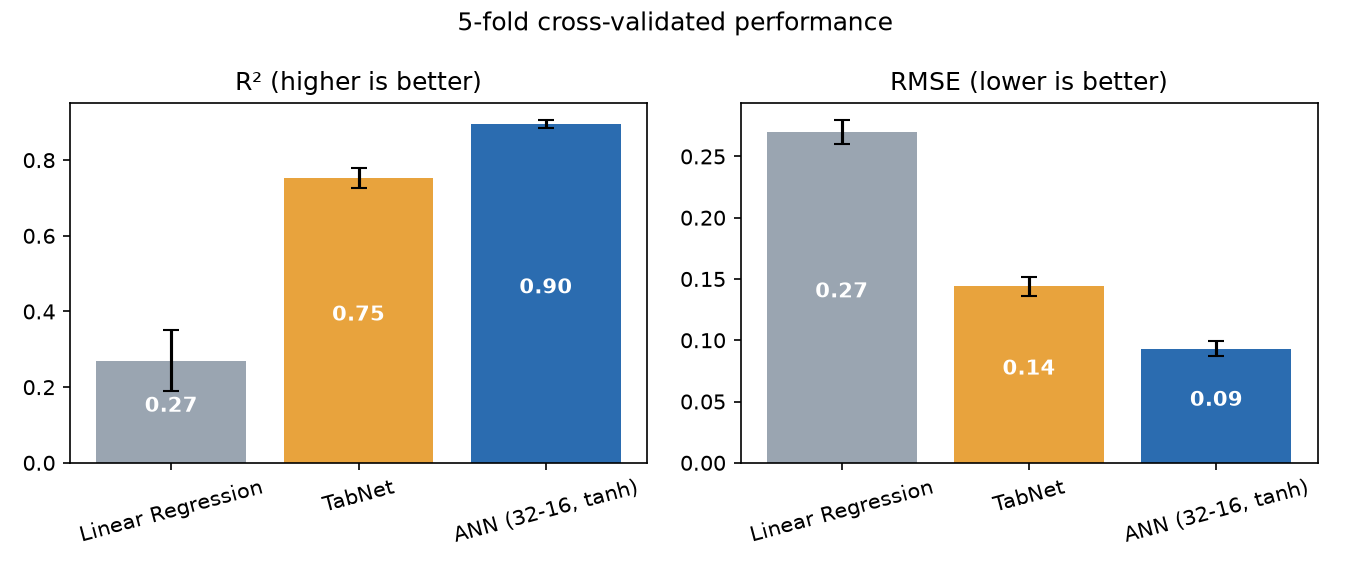
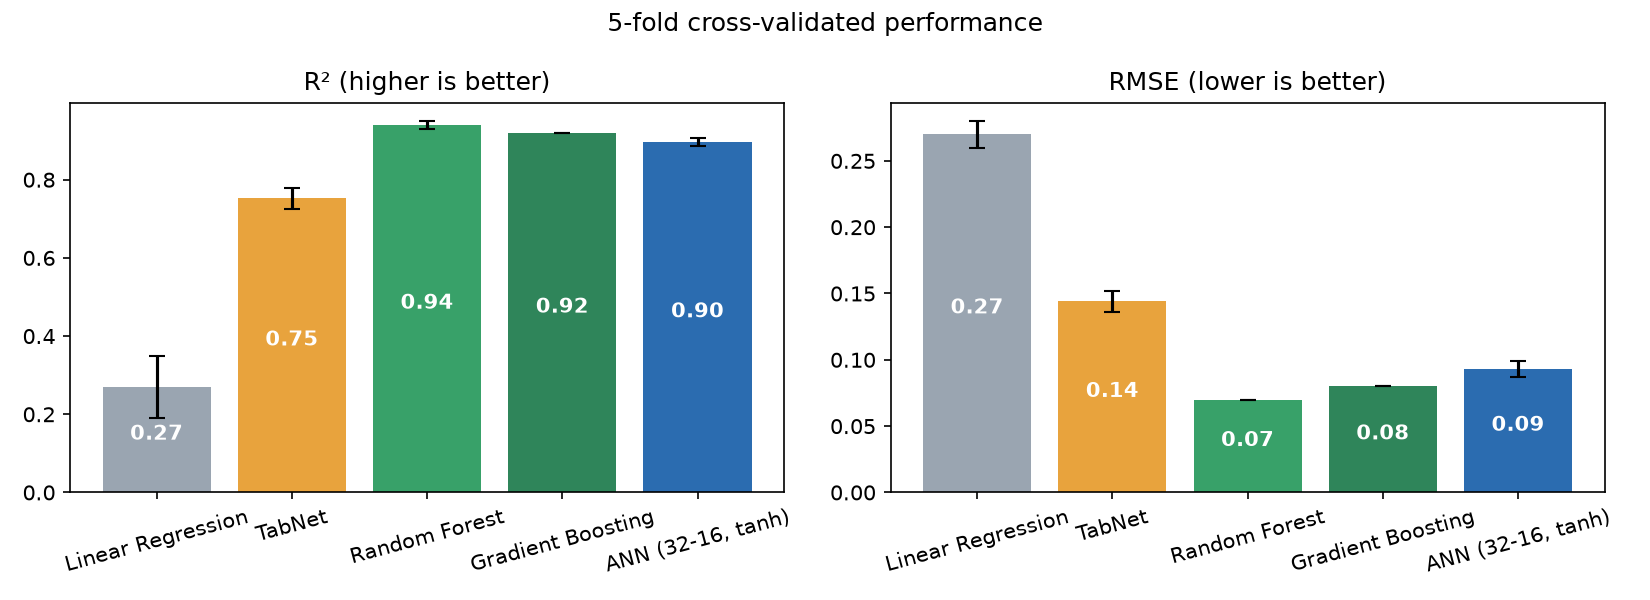
Add grouped CV (leave-one-diameter-out), RF/GB comparison, additional experiments

diff --git a/src/grouped_cv.py b/src/grouped_cv.py
@@ -1,0 +1,122 @@
+"""Random vs. grouped-by-diameter cross-validation for Linear, RF, GBM and the ANN.
+
+Random K-fold can leak near-duplicate experimental conditions between train and test.
+Grouping by pipe diameter (D) tests generalization to unseen diameters.
+
+Schemes: random KFold(5), GroupKFold(5) on D, and leave-one-diameter-out (LODO).
+Usage:  python src/grouped_cv.py [--epochs 1500]
+Outputs: results/grouped_cv_summary.csv, results/grouped_cv_by_diameter.csv,
+         figures/grouped_cv_comparison.png
+"""
+import argparse
+
+import torch  # import before sklearn/matplotlib to avoid Windows DLL conflicts
+import matplotlib
+
+matplotlib.use("Agg")
+import matplotlib.pyplot as plt
+import numpy as np
+import pandas as pd
+from sklearn.ensemble import GradientBoostingRegressor, RandomForestRegressor
+from sklearn.linear_model import LinearRegression
+from sklearn.metrics import mean_squared_error, r2_score
+from sklearn.model_selection import GroupKFold, KFold
+from sklearn.pipeline import Pipeline
+from sklearn.preprocessing import StandardScaler
+
+from ann_cv import train_fold
+from config import FEATURE_COLS, N_SPLITS, ROOT, SEED, TARGET_COL, load_dataset
+
+
+def predict_sklearn(make, Xtr, ytr, Xte):
+    return make().fit(Xtr, ytr.ravel()).predict(Xte)
+
+
+def predict_ann(epochs):
+    def f(Xtr, ytr, Xte):
+        return train_fold(Xtr, ytr, Xte, epochs=epochs)[0]
+
+    return f
+
+
+def main():
+    ap = argparse.ArgumentParser()
+    ap.add_argument("--epochs", type=int, default=1500)
+    args = ap.parse_args()
+
+    df = load_dataset()
+    X = df[FEATURE_COLS].to_numpy().astype(np.float32)
+    y = df[TARGET_COL].to_numpy().astype(np.float32).reshape(-1, 1)
+    groups = df["D"].to_numpy()
+
+    models = {
+        "Linear Regression": lambda Xtr, ytr, Xte: predict_sklearn(
+            lambda: Pipeline([("s", StandardScaler()), ("m", LinearRegression())]), Xtr, ytr, Xte
+        ),
+        "Random Forest": lambda Xtr, ytr, Xte: predict_sklearn(
+            lambda: RandomForestRegressor(n_estimators=200, random_state=SEED, n_jobs=-1), Xtr, ytr, Xte
+        ),
+        "Gradient Boosting": lambda Xtr, ytr, Xte: predict_sklearn(
+            lambda: GradientBoostingRegressor(n_estimators=200, random_state=SEED), Xtr, ytr, Xte
+        ),
+        "ANN (32-16, tanh)": predict_ann(args.epochs),
+    }
+    schemes = {
+        "Random 5-fold": list(KFold(N_SPLITS, shuffle=True, random_state=SEED).split(X)),
+        "Group 5-fold (by D)": list(GroupKFold(N_SPLITS).split(X, y, groups)),
+        f"Leave-one-diameter-out ({len(np.unique(groups))} folds)": [
+            (np.where(groups != g)[0], np.where(groups == g)[0]) for g in np.unique(groups)
+        ],
+    }
+
+    summary, by_d = [], []
+    for sname, splits in schemes.items():
+        for mname, predict in models.items():
+            oof = np.zeros(len(y))
+            fold_r2, fold_rmse = [], []
+            for tr, te in splits:
+                pred = np.asarray(predict(X[tr], y[tr], X[te])).ravel()
+                oof[te] = pred
+                if len(te) >= 10:  # R2 is unstable on tiny folds
+                    fold_r2.append(r2_score(y[te], pred))
+                    fold_rmse.append(mean_squared_error(y[te], pred) ** 0.5)
+                if sname.startswith("Leave"):
+                    by_d.append({"model": mname, "D": groups[te][0], "n": len(te),
+                                 "rmse": mean_squared_error(y[te], pred) ** 0.5})
+            row = {
+                "scheme": sname, "model": mname,
+                "pooled_r2": r2_score(y, oof),
+                "pooled_rmse": mean_squared_error(y, oof) ** 0.5,
+                "fold_r2_mean": np.mean(fold_r2), "fold_r2_std": np.std(fold_r2, ddof=1),
+                "fold_rmse_mean": np.mean(fold_rmse), "fold_rmse_std": np.std(fold_rmse, ddof=1),
+            }
+            summary.append(row)
+            print(f"{sname:38s} {mname:20s} pooled R2={row['pooled_r2']:.3f} RMSE={row['pooled_rmse']:.3f}", flush=True)
+
+    s = pd.DataFrame(summary).round(4)
+    s.to_csv(ROOT / "results" / "grouped_cv_summary.csv", index=False)
+    pd.DataFrame(by_d).round(4).to_csv(ROOT / "results" / "grouped_cv_by_diameter.csv", index=False)
+
+    fig, ax = plt.subplots(figsize=(9, 4.2))
+    order = list(models)
+    w = 0.26
+    colors = ["#2b6cb0", "#e8a33d", "#c05621"]
+    for i, (sname, c) in enumerate(zip(schemes, colors)):
+        v = [s[(s.scheme == sname) & (s.model == m)].pooled_rmse.iloc[0] for m in order]
+        ax.bar(np.arange(len(order)) + (i - 1) * w, v, w, label=sname, color=c)
+    ax.set_xticks(range(len(order)), order)
+    ax.set_ylabel("Pooled out-of-fold RMSE (lower is better)")
+    ax.set_title("Generalization to unseen pipe diameters")
+    ax.axhline(0.2, color="gray", ls=":", lw=0.8)
+    ax.set_ylim(0, 0.45)
+    for p_ in ax.patches:
+        if p_.get_height() > 0.45:
+            ax.text(p_.get_x() + p_.get_width() / 2, 0.43, f"{p_.get_height():.1f}", ha="center", va="top", fontsize=8, color="white")
+
+    ax.legend(fontsize=8)
+    fig.tight_layout()
+    fig.savefig(ROOT / "figures" / "grouped_cv_comparison.png", dpi=150)
+
+
+if __name__ == "__main__":
+    main()

diff --git a/src/make_comparison_figure.py b/src/make_comparison_figure.py
@@ -10,20 +10,25 @@ import pandas as pd
 ROOT = Path(__file__).resolve().parents[1]
 tab = pd.read_csv(next((ROOT / "results" / "tabnet").glob("tabnet_cv_metrics_*.csv")))
 classic = pd.read_csv(ROOT / "results" / "classic_ml" / "classic_ml_cv_results.csv")
-lin = classic[(classic.Method == "Linear Regression") & (classic.Feature_Set == "Raw")].iloc[0]
+def raw(name):
+    return classic[(classic.Method == name) & (classic.Feature_Set == "Raw")].iloc[0]
+
+lin, rf, gb = raw("Linear Regression"), raw("Random Forest"), raw("Gradient Boosting")
 
 # ANN values are the 5-fold CV summary printed by notebooks/ANN_capstone.ipynb
 rows = [
     ("Linear Regression", lin.R2_mean, lin.R2_std, lin.RMSE_mean, lin.RMSE_std),
     ("TabNet", tab.r2.mean(), tab.r2.std(ddof=1), tab.rmse.mean(), tab.rmse.std(ddof=1)),
+    ("Random Forest", rf.R2_mean, rf.R2_std, rf.RMSE_mean, rf.RMSE_std),
+    ("Gradient Boosting", gb.R2_mean, gb.R2_std, gb.RMSE_mean, gb.RMSE_std),
     ("ANN (32-16, tanh)", 0.896, 0.011, 0.093, 0.006),
 ]
 df = pd.DataFrame(rows, columns=["model", "r2_mean", "r2_std", "rmse_mean", "rmse_std"]).round(3)
 df.to_csv(ROOT / "results" / "model_comparison.csv", index=False)
 print(df.to_string(index=False))
 
-fig, axes = plt.subplots(1, 2, figsize=(9, 3.8))
-colors = ["#9aa5b1", "#e8a33d", "#2b6cb0"]
+fig, axes = plt.subplots(1, 2, figsize=(11, 4))
+colors = ["#9aa5b1", "#e8a33d", "#38a169", "#2f855a", "#2b6cb0"]
 for ax, (m, s, title) in zip(axes, [("r2_mean", "r2_std", "R² (higher is better)"), ("rmse_mean", "rmse_std", "RMSE (lower is better)")]):
     ax.bar(df.model, df[m], yerr=df[s], color=colors, capsize=4)
     ax.set_title(title)

diff --git a/README.md b/README.md
@@ -69,9 +69,41 @@ TabNet's attention masks give a complementary view, ranking liquid density highe
 
 Overall, both nonlinear models give a broadly consistent variable hierarchy, which increases confidence that the ANN is learning physical structure rather than noise.
 
-### Classical ML reference
-[results/classic_ml/classic_ml_cv_results.csv](results/classic_ml/classic_ml_cv_results.csv) holds cross-validated tree/kernel/linear baselines from the EDA notebook on raw and dimensionless (Re, We) features. For transparency: **Random Forest (R² 0.94) and Gradient Boosting (R² 0.92) score higher than the ANN on this dataset**. The capstone's focus is a compact, interpretable neural approach rather than beating every tabular baseline; dimensionless features did *not* help (best R² 0.76).
+### Model comparison
+All models use the same 5-fold random split on raw features.
 
+![Model comparison](figures/model_comparison.png)
+
+| Model | R² | RMSE |
+|---|---|---|
+| Linear regression | 0.27 | 0.27 |
+| TabNet | 0.75 | 0.14 |
+| Gradient Boosting | 0.92 | 0.08 |
+| ANN (8-32-16-1, 833 params) | 0.90 | 0.09 |
+| Random Forest | 0.94 | 0.07 |
+
+For transparency: **Random Forest and Gradient Boosting score higher than the ANN on this dataset** under random K-fold. The ANN's case is size (833 parameters), smooth differentiable predictions, and SHAP interpretability, not raw accuracy. Source: [results/classic_ml/classic_ml_cv_results.csv](results/classic_ml/classic_ml_cv_results.csv).
+
+### Does it generalize to unseen pipe diameters?
+Random K-fold can place near-duplicate experimental conditions (same rig, same diameter) in both train and test. To check, `src/grouped_cv.py` holds out whole pipe diameters (GroupKFold by D, and leave-one-diameter-out over all 25 diameters).
+
+![Grouped CV](figures/grouped_cv_comparison.png)
+
+| Pooled out-of-fold | Random 5-fold R² / RMSE | Leave-one-diameter-out R² / RMSE |
+|---|---|---|
+| Linear regression | 0.27 / 0.25 | -31.6 / 1.65 |
+| Random Forest | 0.94 / 0.07 | 0.03 / 0.29 |
+| Gradient Boosting | 0.92 / 0.08 | -0.29 / 0.33 |
+| ANN | 0.90 / 0.09 | 0.15 / 0.27 |
+
+**Finding:** performance collapses when a diameter is held out entirely. Every model is near or below a predict-the-mean baseline (R² ≈ 0). The ANN is the least bad in leave-one-diameter-out, but no model should be trusted outside the diameters it was trained on. The headline R² of ~0.90 therefore describes interpolation within the tested diameters, not cross-geometry prediction. Per-diameter results are in [results/grouped_cv_by_diameter.csv](results/grouped_cv_by_diameter.csv); some diameters have very few points (as few as 4), so per-fold R² is unstable and pooled metrics are the fairer summary.
+
+## Additional things we tried
+
+- **Dimensionless features (Re, We):** no improvement; best R² 0.76 versus 0.90+ on raw features.
+- **Other baselines (Ridge, decision tree, SVM):** none competitive; the polynomial-kernel SVM failed outright. See the classic ML CSV.
+- **Single-split TabNet script:** an earlier TabNet variant on one train/test split is kept in `archive/` for history; the reported TabNet numbers use 5-fold CV.
+- **Diameter-grouped validation:** described above; the most informative negative result in the project.
 ## Repository structure
 
 ```
@@ -79,6 +111,7 @@ Overall, both nonlinear models give a broadly consistent variable hierarchy, whi
 ├── src/
 │   ├── config.py         shared features/target/seed/data path
 │   ├── ann_cv.py         ANN 5-fold CV + SHAP, runnable as a script
+│   ├── grouped_cv.py     random vs. leave-one-diameter-out CV (Linear/RF/GB/ANN)
 │   ├── tabnet_cv.py      TabNet 5-fold CV, saved models and feature importances
 │   └── make_comparison_figure.py
 ├── results/              CV metrics, model comparison, saved TabNet artifacts
@@ -95,6 +128,7 @@ pip install -r requirements.txt
 # put the dataset in data/ (see data/README.md), then:
 python src/ann_cv.py            # ANN CV + SHAP figures  (--skip-shap to skip SHAP)
 python src/tabnet_cv.py         # TabNet CV + final model, writes to results/tabnet/
+python src/grouped_cv.py         # grouped CV, ~15 min on CPU
 python src/make_comparison_figure.py
 ```
 
@@ -105,8 +139,8 @@ Notes:
 ## Limitations and future work
 
 - Small dataset (1,367 points) limited to vertical flow within the experimental ranges of Aliyu et al.; no extrapolation claims.
-- Cross-diameter generalization (e.g. leave-one-diameter-out) has not been tested.
-- Next steps: dimensionless-number feature engineering, uncertainty quantification, other flow regimes (slug/churn), benchmarking against classical entrainment correlations, and hybrid physics–ML models.
+- Cross-diameter generalization is poor (see above); the model is an interpolator within the tested diameters. Physics-informed inputs or more diameters are needed to fix this.
+- Next steps: uncertainty quantification, other flow regimes (slug/churn), benchmarking against classical entrainment correlations, and hybrid physics–ML models.
 
 ## References
 
